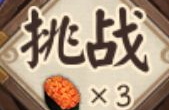
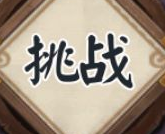
更新Claude.md说明

diff --git a/CLAUDE.md b/CLAUDE.md
@@ -35,11 +35,12 @@ uv run build.py all        # 打包全部
 
 - **main.py** — 命令行版主挂机脚本。连接模拟器 → 加载模板图片 → 循环截屏+模板匹配+点击，包含反检测随机化和异常保护逻辑。
 - **chapter28hard.py** — 困28副本专用挂机脚本。优先级驱动的状态机：胜利结算 > 进入副本 > 打首领 > 打经验怪 > 退出副本，支持自动跑图和宝箱跳过。
-- **gui.py** — GUI 版本（CustomTkinter）。支持配置端口（多开）、匹配阈值、运行时长，实时日志显示。
+- **gui.py** — GUI 版本（CustomTkinter）。支持配置端口（多开）、匹配阈值、运行时长、总次数上限、司机/打手定位，实时日志显示。
 - **shot.py** — 屏幕截图工具，文件名带时间戳（`shot_20260605_164416.png`），用于截取模拟器画面制作模板图片。
 - **path_helper.py** — 路径辅助模块，处理打包后 vs 开发模式的路径差异，自动设置 ADB 路径。
 - **build.py** — Nuitka 打包脚本，自动复制资源文件（模板图片、adb.exe、u2.jar）到输出目录。
 - **label_tool.py** — OpenCV 实现的简易图片标注工具，用于标注 YOLO 训练数据。鼠标拖拽画框，按键分类（1=start, 2=win），自动缩放适配屏幕。
+- **train.py** — YOLO 模型训练脚本。使用 ultralytics 训练目标检测模型，产出 `best.pt` 用于替代模板匹配。
 
 ### 资源文件
 
@@ -65,10 +66,11 @@ uv run build.py all        # 打包全部
 - 反检测机制：随机点击偏移（±5px）、随机暂停、随机运行时长（2-4h）、随机休息间隔。
 - 所有脚本入口处的初始化顺序必须为：`get_base_dir()` → `os.chdir()` → `setup_adb_path()` → `import uiautomator2`。`setup_adb_path()` 必须在 `import uiautomator2` 之前调用，否则打包后找不到 adb.exe。
 - `gui.py` 中的 `_run_loop_chapter28` 与 `chapter28hard.py` 逻辑基本一致，修改一处时需同步另一处。
+- **司机/打手定位**：司机模式匹配 start/win 两个模板（负责开始战斗），打手模式只匹配 win 模板（只需等待战斗结束）。
 
-## YOLO 训练（实验中）
+## YOLO 训练
 
-用于替代模板匹配，解决评分波动问题。当前在 `main.py` 上试验。
+用于替代模板匹配，解决评分波动问题。依赖 `ultralytics`（已在 `pyproject.toml` 中声明）。
 
 ```bash
 # 1. 截图（用 shot.py 或模拟器截图，保存到 yolo/）
@@ -77,8 +79,8 @@ uv run shot.py
 # 2. 标注（OpenCV 标注工具，画框 → 按1/2分类 → 按s保存）
 uv run label_tool.py
 
-# 3. 训练（需要额外安装 ultralytics：uv add ultralytics）
-# 标注完成后运行训练脚本，产出 best.pt 模型
+# 3. 训练（产出 best.pt 模型）
+uv run train.py
 ```
 
 ## 发送给其他人
